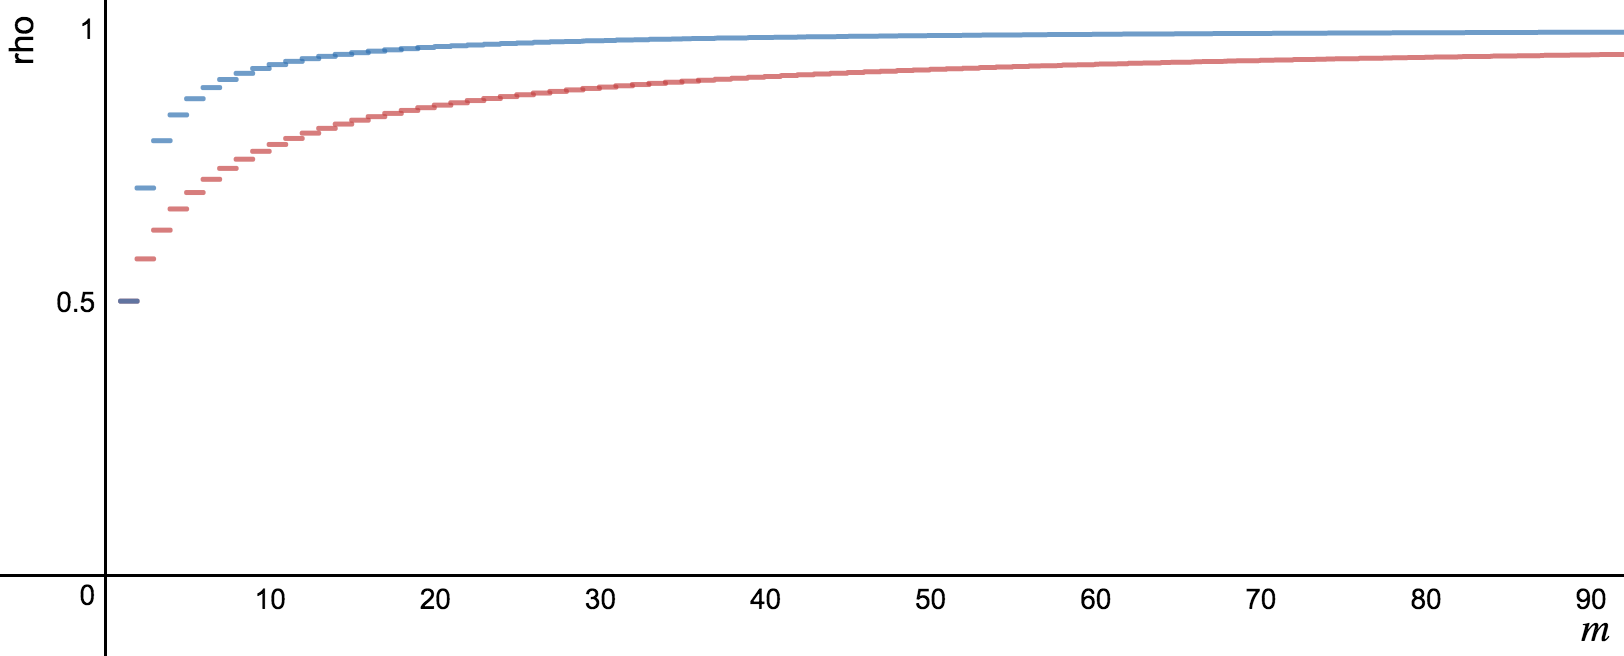
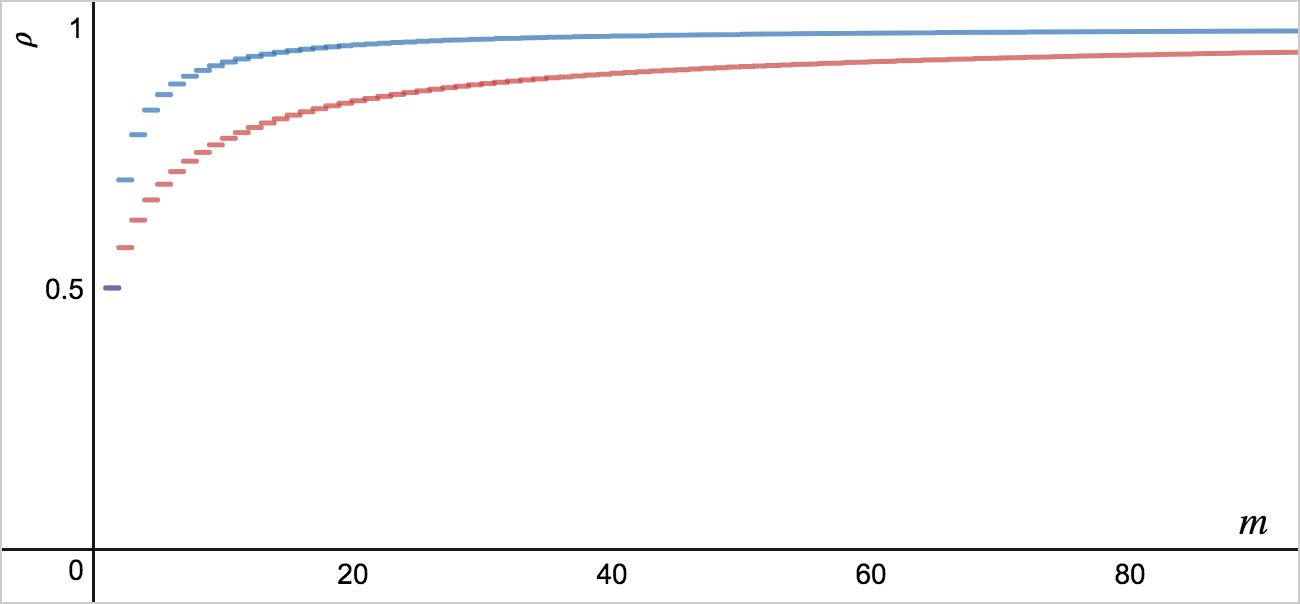
replace some desmos embeds, improve images

Changed region(s): [[0.0, 0.0, 1.0, 1.0]]

diff --git a/content/blog/2016/response-time-stretch-factor.md b/content/blog/2016/response-time-stretch-factor.md
@@ -6,24 +6,24 @@ categories:
 - Scalability
 date: 2016-10-30T10:00:39-04:00
 description: "Is there a simple stretch-factor equation that describes M/M/m queueing delay for m>2?"
-image: "/media/2016/10/error-in-heuristic.png"
+credit: "https://unsplash.com/photos/cIcX_aO9LPo"
+image: "/media/2016/10/unsplash-photos-cIcX_aO9LPo.jpg"
+thumbnail: /media/2016/10/unsplash-photos-cIcX_aO9LPo.tn-500x500.jpg
 title: The Response Time Stretch Factor
 ---
 
 Computer systems, and for that matter all types of systems that receive requests
-and process them, have a response time that includes some time waiting in queue
+and process them, have a response time {{< math >}}R{{< /math >}} that includes some time waiting in queue
 if the server is busy when a request arrives. The wait time increases sharply as
-the server gets busier. For simple M/M/m systems there is a simple equation that
+the server utilization {{< math >}}\rho{{< /math >}} increases. For M/M/m queueing systems there is a simple equation that
 describes this exactly, but for more complicated systems this equation is only
 approximate. This has rattled around in my brain for a long time, and rather
-than keeping my notes private I'm sharing them here (although since I'm still
-trying to learn this stuff I may just be putting my ignorance on full display).
+than keeping my notes private I'm sharing them here.
 <!--more-->
 
+Here's the familiar picture of how response time increases as utilization grows:
 
-![Hockey-Stick Curve](/media/2016/10/hockey-stick.png)
-
-I'll skip all the derivations and go through only the basics to get to the results.
+![Hockey-Stick Curve](/media/2016/10/hockey-stick.svg)
 
 ### The Stretch Factor Heuristic and Exact Formula
 
@@ -74,9 +74,9 @@ $$
 R(m, \rho) = 1 + \frac{ \frac{(m \rho)^m}{m!} }{ (1-\rho) \sum_{n=0}^{m-1} \frac{(m \rho)^n}{n!} + \frac{(m \rho)^m}{m!} } \frac{1}{m(1-\rho)}
 $$
 
-If you'd like to see how this looks, check out [this Desmos calculator](https://www.desmos.com/calculator/9dr7azq0ot).
+Here's a picture of the resulting response time curves for various numbers of servers, from 1 to 64. You can explore it on [this Desmos calculator](https://www.desmos.com/calculator/9dr7azq0ot).
 
-{{< desmos 9dr7azq0ot >}}
+![Erlang Curve for 1-64 Servers](/media/2016/10/erlang-1-64.png)
 
 Now here's the part my brain has been trying to connect, almost idly in
 shower-thought time, for a while. If intuition led from one direction to the
@@ -120,7 +120,7 @@ value. In other words, the heuristic's *error function*.  Here's a graph of
 that for several values of {{< math >}}m{{< /math >}}. Red is 1 server, green is 8, purple is 16, orange
 is 64.
 
-{{< desmos qo1n4shf1f >}}
+![Heuristic Error Function](/media/2016/10/heuristic-error.png)
 
 Note that I showed utilization extending out beyond the value 1 because the
 shape of the function is interesting, but that value is impossible---a server can
@@ -246,7 +246,7 @@ divided by {{< math >}}m{{< /math >}} to normalize it relative to the number of 
 a [Desmos calculator](https://www.desmos.com/calculator/7ygut81via) illustrating
 the shape of this adjustment term for 1, 4, 8, and 16 servers:
 
-{{< desmos 7ygut81via >}}
+![Heuristic Error as Function of Utilization](/media/2016/10/heuristic-error-as-f-util.png)
 
 One of the challenges with this is that due to the limitations of floating-point
 math in computers, the heuristic function appears to have no error at low
@@ -276,7 +276,7 @@ to 1, but if you zoom out further, it looks more like... wait for it... part of
 the Gamma function. You can see this on
 [Desmos](https://www.desmos.com/calculator/hsidkl4og8).
 
-{{< desmos hsidkl4og8 >}}
+![Heuristic Error as Function of Servers](/media/2016/10/heuristic-error-as-f-servers.png)
 
 I experimented with this in a different way, by trying to approximate
 {{< math >}}A_{base}{{< /math >}} directly. I just guessed at its shape and came up with the
@@ -289,13 +289,12 @@ $$
 You can see this shape, compared with the actual {{< math >}}A_{base}{{< /math >}}, at this
 [Desmos](https://www.desmos.com/calculator/sgwrqdcnzk).
 
-{{< desmos sgwrqdcnzk >}}
+![Square Root Approximation To Heuristic](/media/2016/10/sqrt-approx-to-heuristic.png)
 
-And [this
-one](https://www.desmos.com/calculator/opa1sfpxfw) shows what this looks like
-when included as a term in the heuristic stretch factor.
+And [this one](https://www.desmos.com/calculator/opa1sfpxfw) shows what this
+looks like when included as a term in the heuristic stretch factor.
 
-{{< desmos opa1sfpxfw >}}
+![Heuristic Via Skewing Utilization](/media/2016/10/heuristic-via-skewing-utilization.png)
 
 Red is Erlang, blue is my heuristic, and black dashed is Gunther's.
 Don't be fooled; mine may look better, but if you examine high utilizations

diff --git a/content/blog/2016/queueing-knee-slope.md b/content/blog/2016/queueing-knee-slope.md
@@ -1,13 +1,14 @@
 ---
+title: "The Queueing Knee, Part 2"
+date: 2016-12-04T20:53:00-05:00
 url: /blog/queueing-knee-slope/
-author: Baron Schwartz
+description: "Part 2: what other definitions of queueing knee are there?"
+image: /media/2016/11/unsplash-photo-SwIQu6xODrI.jpg
+thumbnail: /media/2016/11/unsplash-photo-SwIQu6xODrI.tn-500x500.jpg
+credit: https://unsplash.com/photos/SwIQu6xODrI
 categories:
 - Scalability
 - Math
-date: 2016-12-04T20:53:00-05:00
-description: "Part 2: what other definitions of queueing knee are there?"
-image: "/media/2016/12/knee-2.png"
-title: "The Queueing Knee, Part 2"
 ---
 
 Last week I wrote about the so-called ["knee" in the M/M/m queueing theory
@@ -74,12 +75,12 @@ at {{< math >}}m=1{{< /math >}}. *In a single-server queueing system, the "knee"
 If this is a surprise to you, take another look at the queueing
 "hockey stick" curve. You'll usually see it plotted with a stretched
 horizontal axis, because {{< math >}}0<\rho<1{{< /math >}}, and compressed vertical axis. That
-fools your eye! But when [plotted](https://www.desmos.com/calculator/fokgr3jcyl)
+fools your eye! But when [plotted](https://www.desmos.com/calculator/0y4tillfys)
 without distortion, it's quite clear that the queueing curve is on a diagonal
 right away when {{< math >}}m=1{{< /math >}}.  Here's the queuing curve for 1, 2, and 8 servers
 (red, blue, and green lines).
 
-{{< desmos fokgr3jcyl >}}
+![Queuing Delay Plotted With Square Aspect Ratio](/media/2016/12/knee-1.png)
 
 For {{< math >}}m=2{{< /math >}} and greater, the solution is a lot of algebra. I resorted to using
 Wolfram Alpha. For 2 service channels, the equation reduces to
@@ -103,12 +104,12 @@ where
 Or {{< math >}}\rho \approx 0.371507 {{< /math >}}. This gets worse for {{< math >}}m=3{{< /math >}} and above, and
 there's no single solution for all {{< math >}}m{{< /math >}}. It's not too bad to plot, though;
 here's an interactive [Desmos
-calculator](https://www.desmos.com/calculator/mblitsyfkg) where you can see the
+calculator](https://www.desmos.com/calculator/yqdi14cruv) where you can see the
 queueing curve in blue, and its derivative in orange, as you vary {{< math >}}m{{< /math >}}. Where
 the derivative crosses the line {{< math >}}y=1{{< /math >}} is the "knee" by the definition I'm
 using in this section.
 
-{{< desmos mblitsyfkg >}}
+![Knee Defined As Derivative=1](/media/2016/12/derivative-y-1.png)
 
 The behavior, although I can't plot it with an equation, is not different from
 what you've seen previously: as you increase the number of service channels, the
@@ -137,11 +138,11 @@ The solution in terms of {{< math >}}\rho{{< /math >}} turns out to be not too d
 
 Which is not too different, in fact, than the solution to Cary Millsap's
 definition. Here are both
-[plotted](https://www.desmos.com/calculator/axjk6qjrzj) together, showing
+[plotted](https://www.desmos.com/calculator/dljpiank18) together, showing
 similar behavior. Blue is "wait equals service time" and red is Cary Millsap's
 definition.
 
-{{< desmos axjk6qjrzj >}}
+![Knee Defined As Wait Equals Service Time](/media/2016/12/knee-2.png)
 
 This definition is reasonable, in some sense, if you think "bad performance" is
 roughly equivalent to "my wait is longer than my job, that's a waste." But it's
@@ -212,5 +213,5 @@ channels increases. (The exact shape and rate of that growth varies, but it
 always grows. This follows directly from Erlang's formulas.)
 
 In the end, that principle is the only takeaway from this. There's no knee, but
-the more CPUs or whatever you have, the more fully utilized you should expect to
+the more CPUs (or servers) you have, the more fully utilized you should expect to
 run that system. You're foolish to do otherwise.

diff --git a/content/blog/2016/queueing-knee-tangent.md b/content/blog/2016/queueing-knee-tangent.md
@@ -1,13 +1,14 @@
 ---
+title: "The Queueing Knee, Part 1"
+date: 2016-11-30T22:02:08-05:00
 url: /blog/queueing-knee-tangent/
-author: Baron Schwartz
+description: "The knee in the queueing response time curve illustrates important truths about queueing theory."
+credit: "https://unsplash.com/photos/K67sBVqLLuw"
+image: "/media/2016/11/unsplash-photos-K67sBVqLLuw.jpg"
+thumbnail: /media/2016/11/unsplash-photos-K67sBVqLLuw.tn-500x500.jpg
 categories:
 - Scalability
 - Math
-date: 2016-11-30T22:02:08-05:00
-description: "The knee in the queueing response time curve illustrates important truths about queueing theory."
-image: "/media/2016/11/knee-1.png"
-title: "The Queueing Knee, Part 1"
 ---
 
 The "knee" in the [M/M/m queueing theory response time
@@ -25,7 +26,7 @@ number of service channels, and although we may argue about the topics in the
 preceding paragraph and whether this is the right definition, it still serves to
 illustrate important concepts.
 
-{{< desmos cqh81xgspq >}}
+![Queueing Delay Knee](/media/2016/11/knee-1.png)
 
 The graph above shows the response time stretch factor curve for a queueing
 system with 8 service channels. This is analogous to a server with 8 CPUs, for
@@ -65,7 +66,8 @@ The root of this expression is a function of {{< math >}}m{{< /math >}} as expec
 \left(m+1\right)^{-\frac{1}{m}}
 {{< /math >}}
 
-Here's how that function looks when plotted.
+Here's how that function looks when
+[plotted](https://www.desmos.com/calculator/lnutkzjitx).
 
 ![Knee as a function of m](/media/2016/11/knee-2.png)
 
